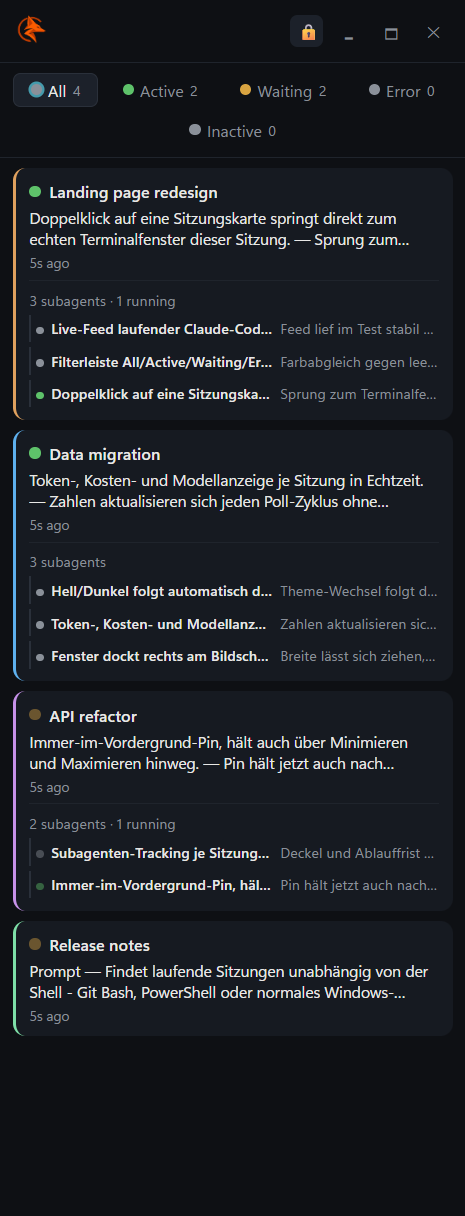
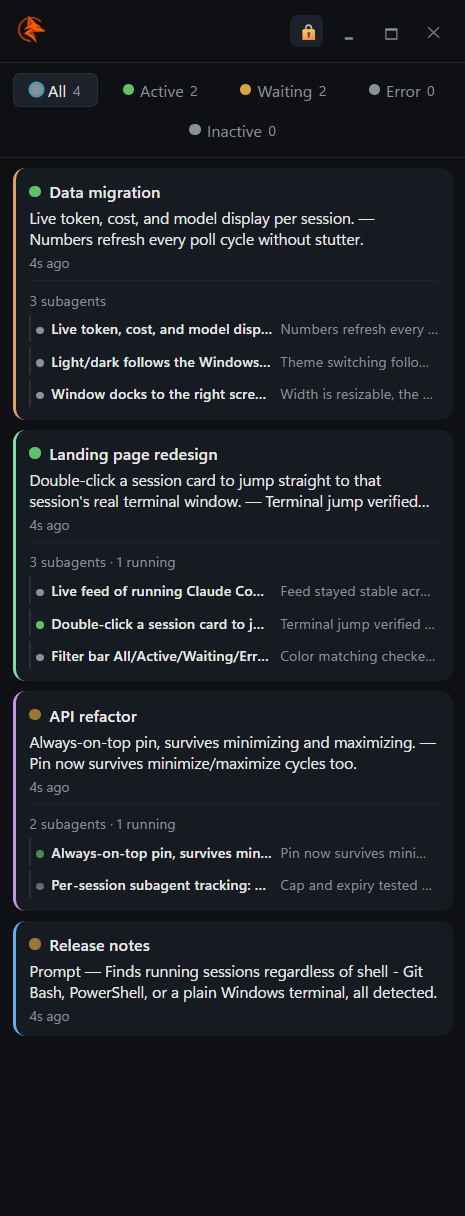
Demo-Texte und Screenshots ins Englische übersetzen
Alle erfundenen Sitzungs-/Feature-Texte in demo/make_demo_data.py waren
noch Deutsch, obwohl das App-Chrome schon englisch ist. Screenshots neu
erzeugt und die committeten assets/*.png ersetzt.

diff --git a/demo/make_demo_data.py b/demo/make_demo_data.py
@@ -15,44 +15,44 @@ import uuid
 from pathlib import Path
 
 FEATURES = [
-    "Live-Feed laufender Claude-Code-Sitzungen, Status kommt aus Claude Codes eigener Prozess-Registry statt geraten zu werden.",
-    "Filterleiste All/Active/Waiting/Error/Inactive: die Punkte leuchten in Farbe nur, wenn in der Kategorie auch etwas liegt.",
-    "Doppelklick auf eine Sitzungskarte springt direkt zum echten Terminalfenster dieser Sitzung.",
-    "Subagenten-Tracking je Sitzung: höchstens 5 gleichzeitig sichtbar, fertige verschwinden automatisch nach 10 Minuten.",
-    "Immer-im-Vordergrund-Pin, hält auch über Minimieren und Maximieren hinweg.",
-    "Hell/Dunkel folgt automatisch dem Windows-Systemthema oder lässt sich von Hand umstellen.",
-    "Fenster dockt rechts am Bildschirmrand an und lässt sich in der Breite frei ziehen.",
-    "Token-, Kosten- und Modellanzeige je Sitzung in Echtzeit.",
+    "Live feed of running Claude Code sessions - status comes straight from Claude Code's own process registry, never guessed.",
+    "Filter bar All/Active/Waiting/Error/Inactive: the dots only light up in color when a category actually has something in it.",
+    "Double-click a session card to jump straight to that session's real terminal window.",
+    "Per-session subagent tracking: at most 5 visible at once, finished ones drop off automatically after 10 minutes.",
+    "Always-on-top pin, survives minimizing and maximizing.",
+    "Light/dark follows the Windows system theme automatically, or switch it by hand.",
+    "Window docks to the right screen edge and can be freely resized by width.",
+    "Live token, cost, and model display per session.",
 ]
 
-# Eigenständiger Abschlusssatz je Feature für die Fertigmeldung - bewusst KEIN
-# Ausschnitt/keine Kürzung von FEATURES[i], sonst entsteht in der Aktivitätszeile
-# "Titel — Titel..." (genau der Dopplungsfehler, den Lukas gefunden hat).
+# Standalone closing sentence per feature for the done notification - deliberately
+# NOT a slice/truncation of FEATURES[i], or the activity line turns into
+# "Title — Title..." (exactly the duplication bug Lukas found).
 DONE_SUMMARIES = [
-    "Feed lief im Test stabil über mehrere Sitzungswechsel.",
-    "Farbabgleich gegen leere und belegte Kategorien geprüft.",
-    "Sprung zum Terminalfenster in drei Anläufen verifiziert.",
-    "Deckel und Ablauffrist mit echten Zeitstempeln getestet.",
-    "Pin hält jetzt auch nach Minimieren/Maximieren-Zyklen.",
-    "Theme-Wechsel folgt dem Systemwert und der Handumstellung.",
-    "Breite lässt sich ziehen, Dock-Kante bleibt dabei fix.",
-    "Zahlen aktualisieren sich jeden Poll-Zyklus ohne Ruckeln.",
+    "Feed stayed stable across several session switches in testing.",
+    "Color matching checked against empty and populated categories.",
+    "Terminal jump verified across three separate attempts.",
+    "Cap and expiry tested with real timestamps.",
+    "Pin now survives minimize/maximize cycles too.",
+    "Theme switching follows both the system value and the manual override.",
+    "Width is resizable, the dock edge stays fixed.",
+    "Numbers refresh every poll cycle without stutter.",
 ]
 
 # (session label, cwd, status, prompt, [(feature_index, state), ...])
 SESSIONS = [
     ("Landing page redesign", r"C:\Demo\landing-page", "busy",
-     "Kannst du dir das kurz ansehen?",
+     "Can you take a quick look at this?",
      [(0, "done"), (1, "done"), (2, "running")]),
     ("API refactor", r"C:\Demo\billing-api", "idle",
-     "Teile den Billing-Endpunkt in kleinere Handler auf.",
+     "Split the billing endpoint into smaller handlers.",
      [(3, "done"), (4, "running")]),
     ("Data migration", r"C:\Demo\warehouse-etl", "busy",
-     "Migriere die alte Kundentabelle auf das neue Schema.",
+     "Migrate the old customer table to the new schema.",
      [(5, "done"), (6, "done"), (7, "done")]),
     ("Release notes", r"C:\Demo\release-notes", "idle",
-     "Findet laufende Sitzungen unabhängig von der Shell "
-     "- Git Bash, PowerShell oder normales Windows-Terminal, alles wird erkannt.",
+     "Finds running sessions regardless of shell "
+     "- Git Bash, PowerShell, or a plain Windows terminal, all detected.",
      []),
 ]
 
